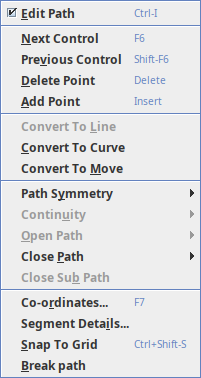
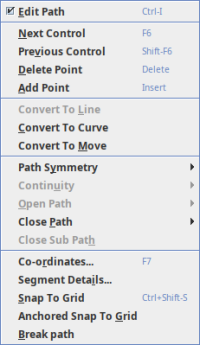
added anchored snap to grid edit path function

Changed region(s): [[0.0, 0.0, 1.0, 0.9855], [0.69, 0.8406, 0.93, 0.8696]]

diff --git a/src/doc/en/flowframtk-main.tex b/src/doc/en/flowframtk-main.tex
@@ -7181,11 +7181,13 @@ you can specify the angle of
 Notes:
 \begin{itemize}
 \item Individual \glspl{object}
-will be rotated relative to the \manmsg{centre} of the \gls{object}.
+will be rotated relative to the \manmsg{centre} of the \gls{object}'s \gls{bbox}.
 
 \item \Glspl*{object} within a
 \gls{group} will be rotated relative to the \manmsg{centre} of the
-group.
+group's \gls{bbox}.
+
+\item A \gls*{shape}['s] \gls{line-style} contributes to the \gls{bbox}. 
 
 \item Rotating a \gls{textpath} will rotate the path and the text
 will adjust to follow the transformed path.
@@ -7329,6 +7331,8 @@ object's \gls{bbox}.
 \item \Glspl*{object} within a
 \gls{group} will be scaled relative to the top left corner
 of the group's \gls*{bbox}.
+
+\item A \gls*{shape}['s] \gls{line-style} contributes to the \gls{bbox}. 
 
 \item Scaling a \gls{textpath} will scale the path and the text
 will adjust to follow the transformed path. Note that the text
@@ -7585,6 +7589,8 @@ object's \gls{bbox}.
 \item \Glspl*{object} within a 
 \gls{group} will be sheared relative to the bottom
 left corner of the group's \gls*{bbox}.
+
+\item A \gls*{shape}['s] \gls{line-style} contributes to the \gls{bbox}. 
 
 \item Shearing a \gls{textpath} will shear the path and the text
 will adjust to follow the transformed path. Note that the text
@@ -8039,6 +8045,12 @@ for further details.
 The \menu{editpath.snap} menu item will
 move the currently selected \gls*{controlpt} to the nearest
 tick mark.
+
+\menudef{menu.editpath.anchored_snap}
+
+The \menu{editpath.anchored_snap} menu item will move the entire
+shape so that the currently selected \gls{controlpt} is on the
+nearest tick mark.
 
 \plabel[Breaking a Path]{mi:breakpath}
 \menudef{menu.editpath.break_path}

diff --git a/src/java/flowframtk/JDRCanvas.java b/src/java/flowframtk/JDRCanvas.java
@@ -928,6 +928,19 @@ public class JDRCanvas extends JPanel
          }
          ));
 
+      // Anchored snap to grid
+
+      editPathPopupMenu.add(EditPathAction.createMenuItem(this,
+         "menu.editpath", "anchored_snap",
+         new FlowframTkActionListener()
+         {
+            public void doAction(FlowframTkAction action, ActionEvent evt)
+            {
+               anchoredSnapToGrid();
+            }
+         }
+         ));
+
       // Break path
 
       editPathPopupMenu.add(EditPathAction.createMenuItem(this,
@@ -3143,6 +3156,28 @@ public class JDRCanvas extends JPanel
       frame_.setGridLock(lock);
 
       setSelectedStoragePoint(p.getX(),p.getY());
+   }
+
+   public void anchoredSnapToGrid()
+   {
+      JDRPoint selectedPoint = getSelectedStoragePoint();
+
+      if (selectedPoint == null) return;
+
+      boolean lock = frame_.getGridLock();
+      frame_.setGridLock(true);
+
+      Point2D p = getNearestStorageTicFromStorage(selectedPoint.x,
+                                                  selectedPoint.y);
+
+      frame_.setGridLock(lock);
+
+      double dx = p.getX() - selectedPoint.x;
+      double dy = p.getY() - selectedPoint.y;
+
+      UndoableEdit edit = new MoveObject(editedPath, -dx, -dy);
+
+      frame_.postEdit(edit);
    }
 
    public void breakPath()
